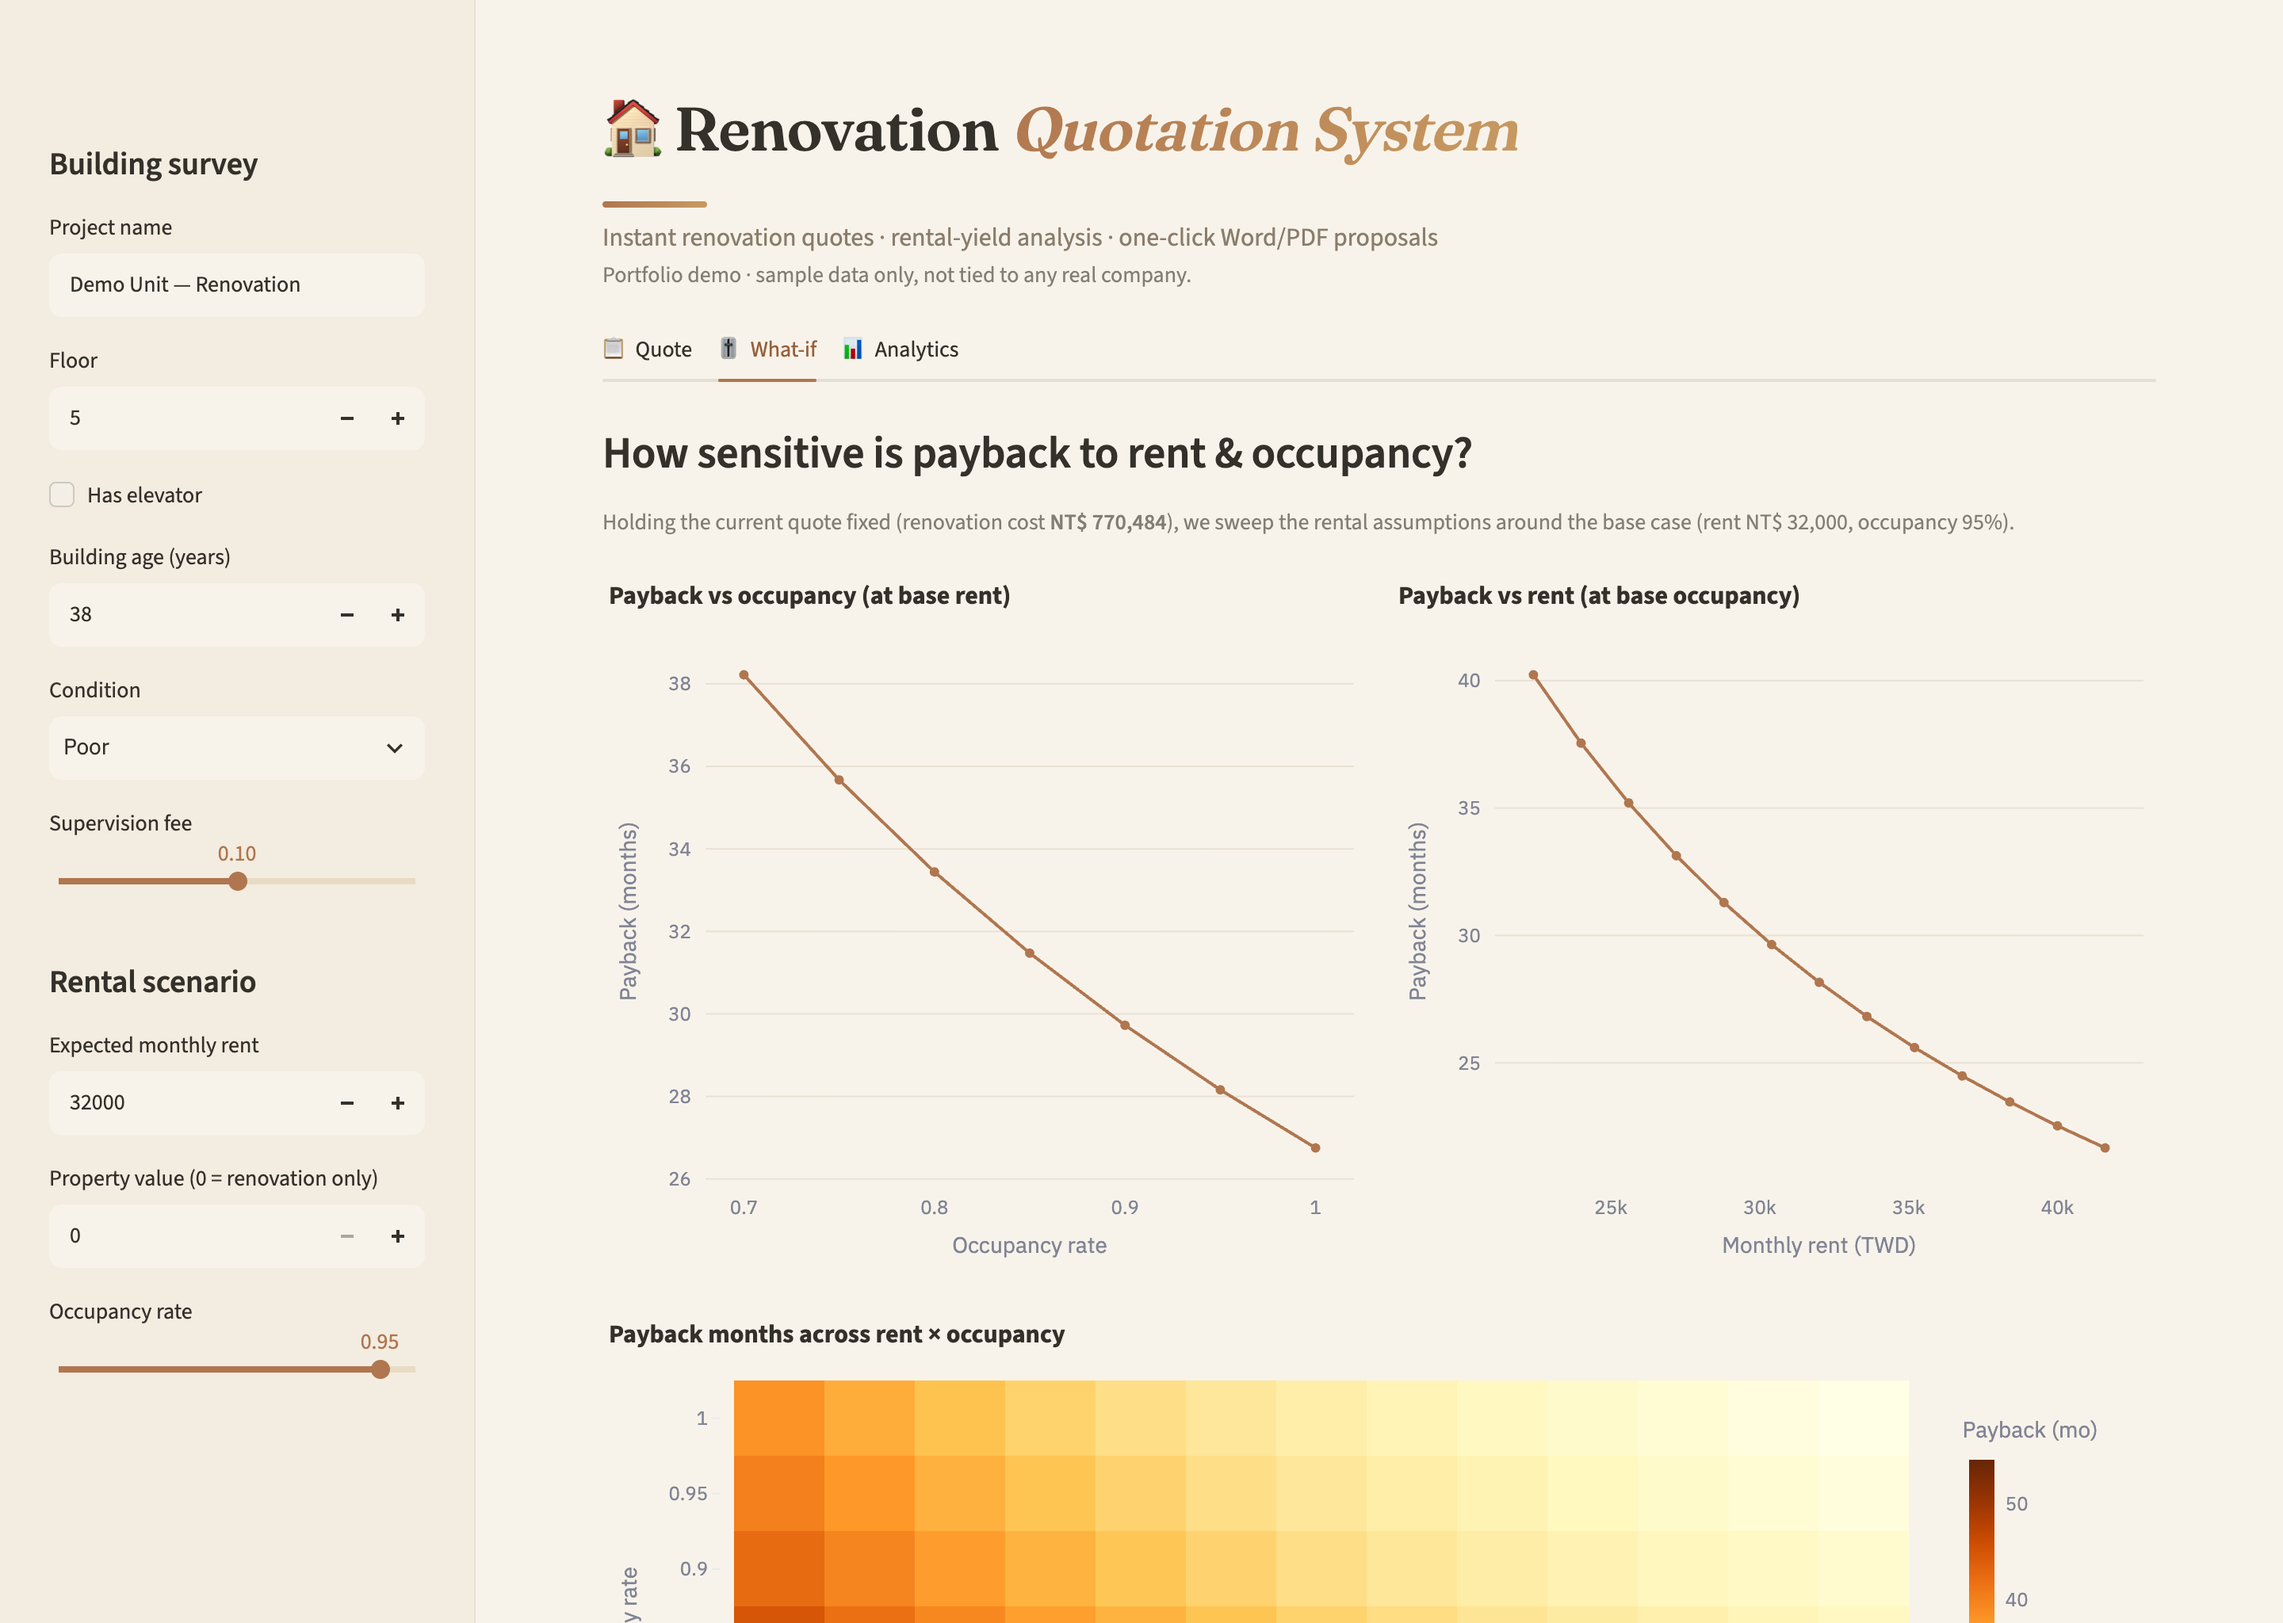
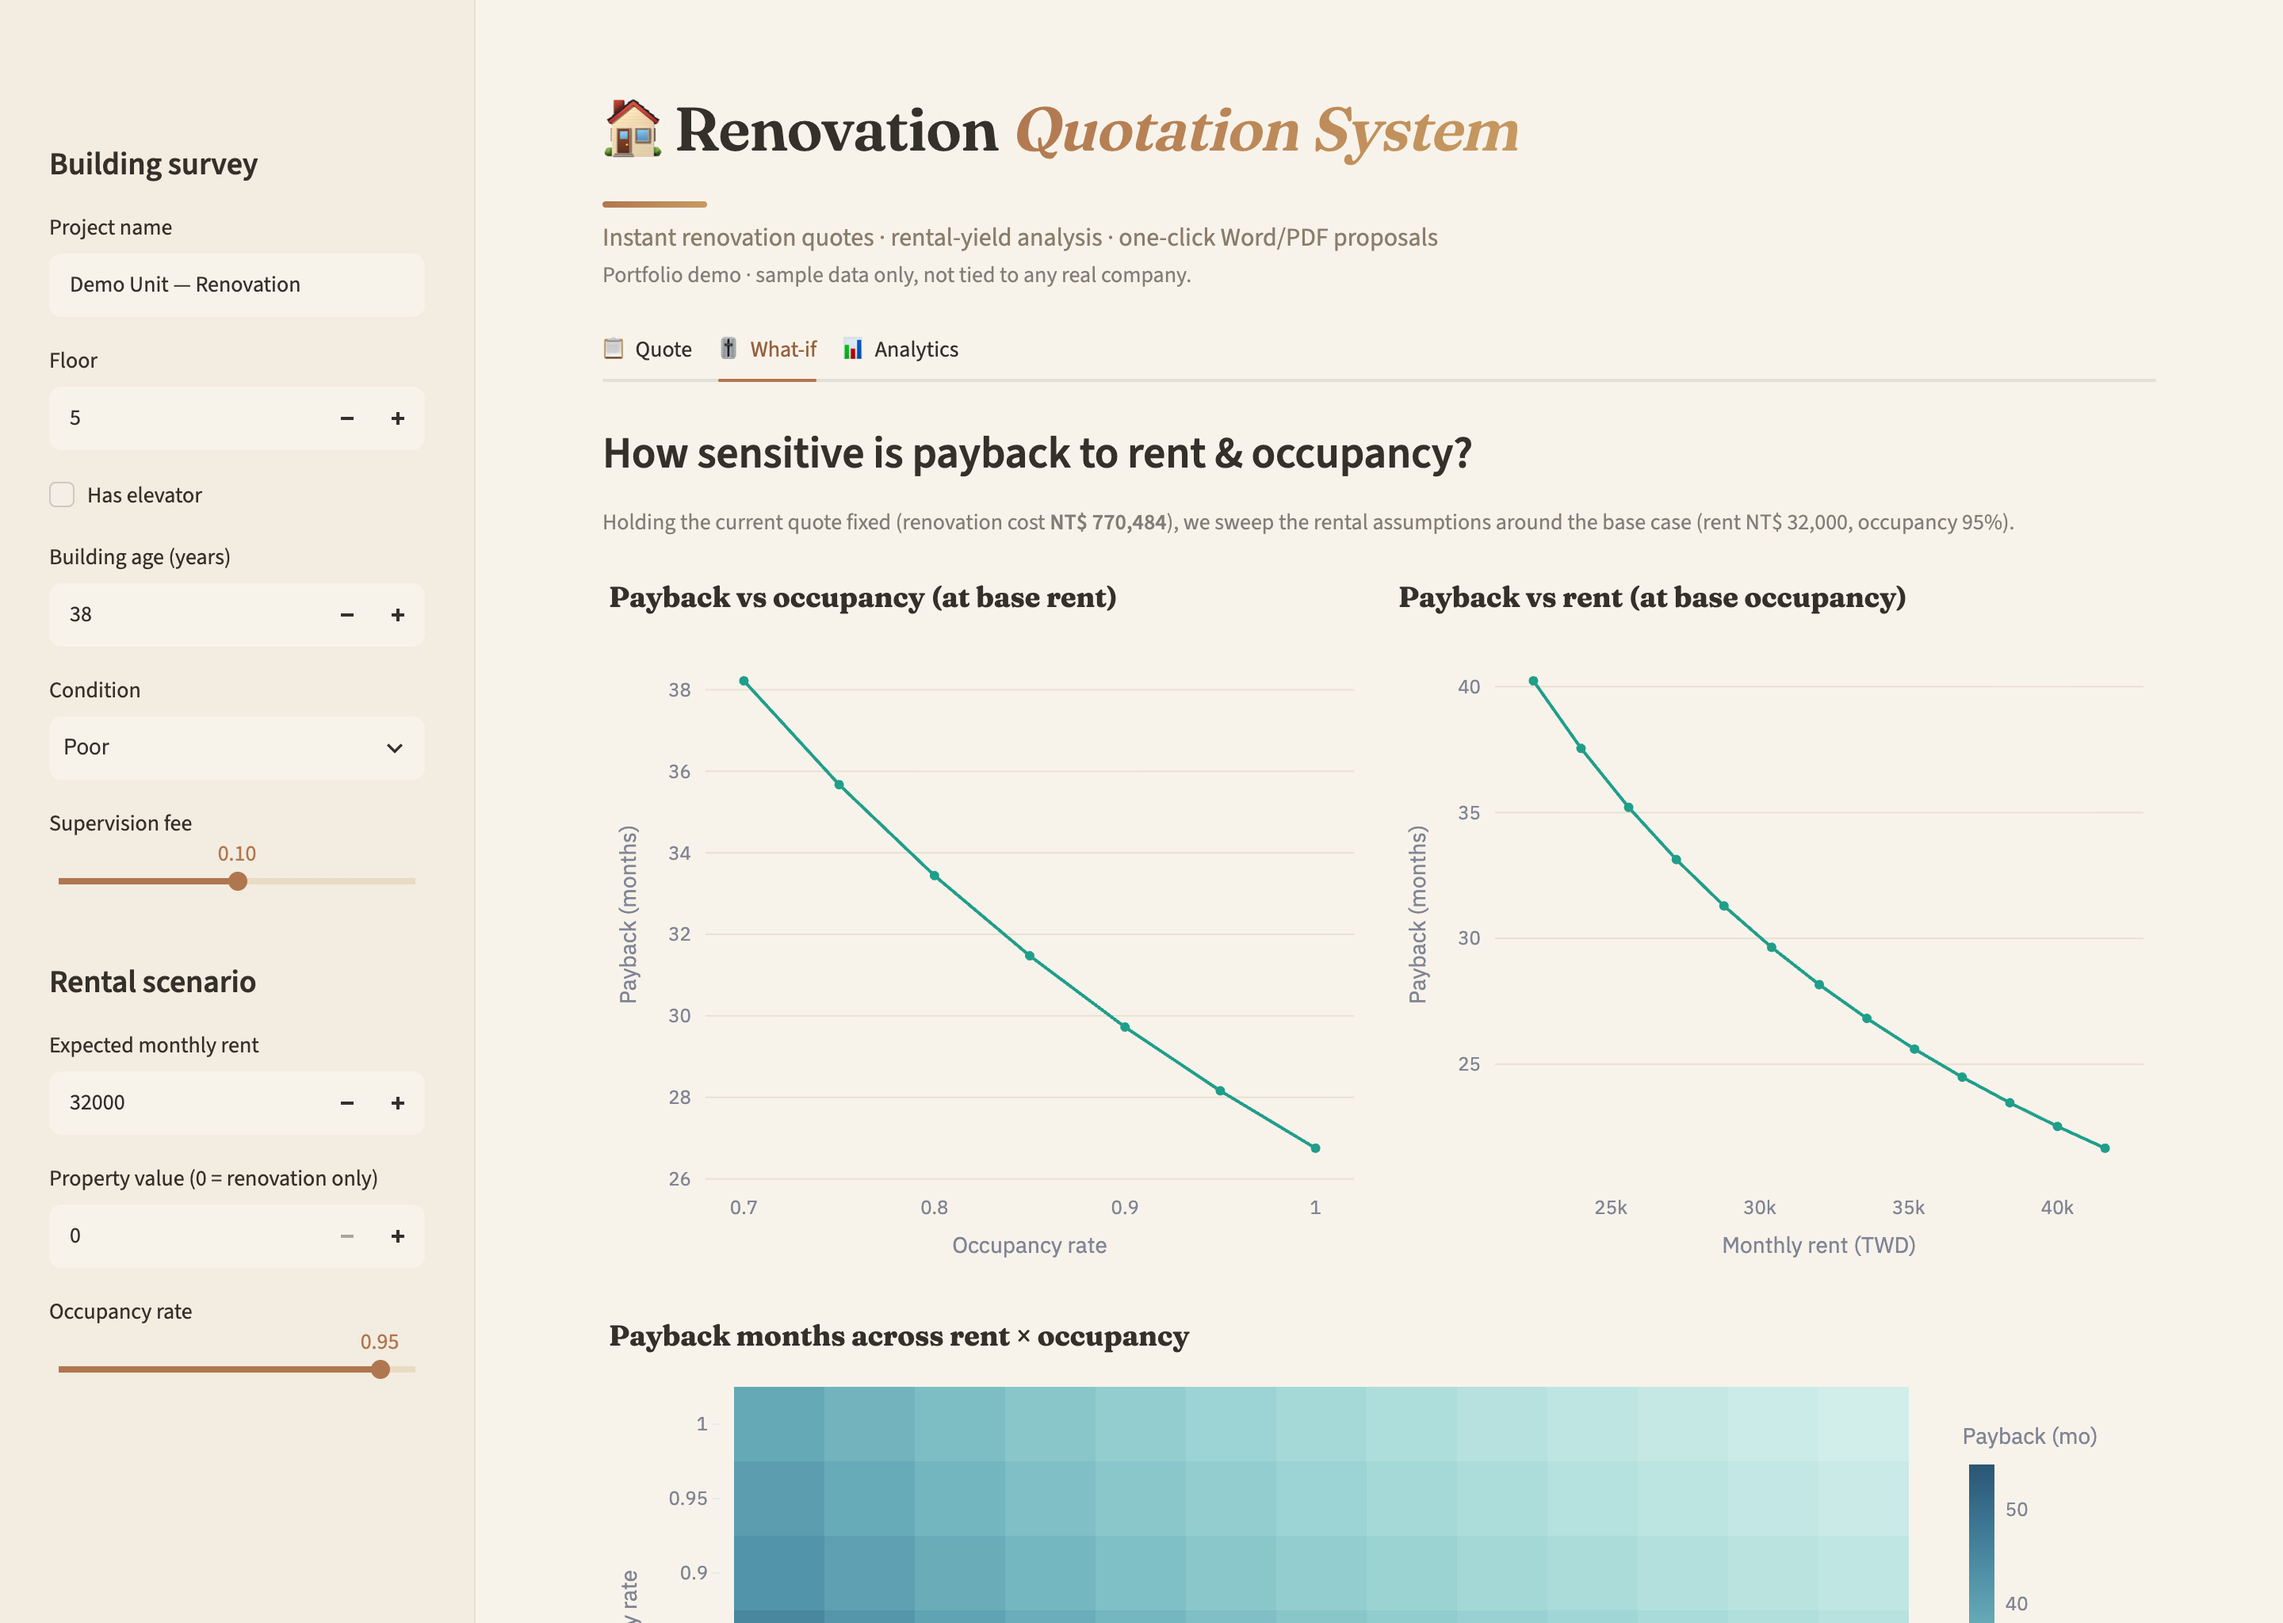
style: give charts a distinct palette + teal pop (not all one brown)
- teal (#1f9e8a) as the primary chart / pop colour against the warm cream
  (classic terracotta + teal pairing); terracotta for the cost bars
- distinct 4-hue categorical palette for conditions (teal/ochre/terracotta/rust)
  instead of four indistinguishable browns
- teal sequential heatmap; serif (Fraunces) chart titles
- refresh README screenshots

diff --git a/app/streamlit_app.py b/app/streamlit_app.py
@@ -94,18 +94,22 @@ _inject_css()
 
 CONDITION_ORDER = ["normal", "aging", "poor", "severe"]
 
-# Warm "renovation" chart palette (matches the app skin).
-CLAY = "#b0764f"
-WARM_SEQ = ["#caa06e", "#c0804f", "#a85d3a", "#7a3f28"]  # normal -> severe (worse = deeper)
+# Chart palette — warm base with a teal "pop" for a designed, professional look
+# (the classic terracotta + teal interior pairing), NOT everything one brown.
+POP = "#1f9e8a"   # teal — primary chart / pop colour
+WARM = "#c15f3c"  # terracotta — secondary series
+# Distinct, designed categorical palette (normal -> severe): teal, ochre, terracotta, rust
+CAT_SEQ = ["#1f9e8a", "#e0a03e", "#c15f3c", "#7a4a3a"]
 
 
 def _style_fig(fig):
-    """Blend a Plotly figure into the warm cream theme."""
+    """Blend a Plotly figure into the warm cream theme (transparent bg, serif titles)."""
     fig.update_layout(
         paper_bgcolor="rgba(0,0,0,0)",
         plot_bgcolor="rgba(0,0,0,0)",
         font=dict(color="#34302a", family="IBM Plex Sans, sans-serif"),
-        margin=dict(t=48, l=8, r=8, b=8),
+        title_font=dict(family="Fraunces, Georgia, serif", size=18, color="#34302a"),
+        margin=dict(t=52, l=8, r=8, b=8),
     )
     fig.update_xaxes(gridcolor="rgba(120,90,50,.12)", zeroline=False)
     fig.update_yaxes(gridcolor="rgba(120,90,50,.12)", zeroline=False)
@@ -300,7 +304,7 @@ with tab_whatif:
             x=occ_grid, y=pay_occ, markers=True,
             labels={"x": "Occupancy rate", "y": "Payback (months)"},
             title="Payback vs occupancy (at base rent)",
-            color_discrete_sequence=[CLAY],
+            color_discrete_sequence=[POP],
         )
         st.plotly_chart(_style_fig(fig_o), use_container_width=True)
     with col_b:
@@ -309,14 +313,14 @@ with tab_whatif:
             x=rent_grid, y=pay_rent, markers=True,
             labels={"x": "Monthly rent (TWD)", "y": "Payback (months)"},
             title="Payback vs rent (at base occupancy)",
-            color_discrete_sequence=[CLAY],
+            color_discrete_sequence=[POP],
         )
         st.plotly_chart(_style_fig(fig_r), use_container_width=True)
 
     z = [[payback_for(r, o) for r in rent_grid] for o in occ_grid]
     fig_h = px.imshow(
         z, x=rent_grid, y=occ_grid, origin="lower", aspect="auto",
-        color_continuous_scale="YlOrBr",
+        color_continuous_scale="Teal",
         labels={"x": "Monthly rent (TWD)", "y": "Occupancy rate", "color": "Payback (mo)"},
         title="Payback months across rent × occupancy",
     )
@@ -351,14 +355,14 @@ with tab_analytics:
         g1, g2 = st.columns(2)
         with g1:
             fig1 = px.histogram(d, x="grand_total", nbins=30, title="Total price distribution",
-                                color_discrete_sequence=[CLAY])
+                                color_discrete_sequence=[POP])
             fig1.update_layout(showlegend=False)
             st.plotly_chart(_style_fig(fig1), use_container_width=True)
         with g2:
             fig2 = px.scatter(
                 d, x="area_ping", y="grand_total", color="condition",
                 category_orders={"condition": CONDITION_ORDER}, opacity=0.7,
-                color_discrete_sequence=WARM_SEQ,
+                color_discrete_sequence=CAT_SEQ,
                 title="Floor area vs total price",
             )
             st.plotly_chart(_style_fig(fig2), use_container_width=True)
@@ -370,7 +374,7 @@ with tab_analytics:
             means, orientation="h",
             labels={"value": "Mean cost (TWD)", "index": "Category"},
             title="Average cost by trade category",
-            color_discrete_sequence=[CLAY],
+            color_discrete_sequence=[WARM],
         )
         fig3.update_layout(showlegend=False)
         st.plotly_chart(_style_fig(fig3), use_container_width=True)
